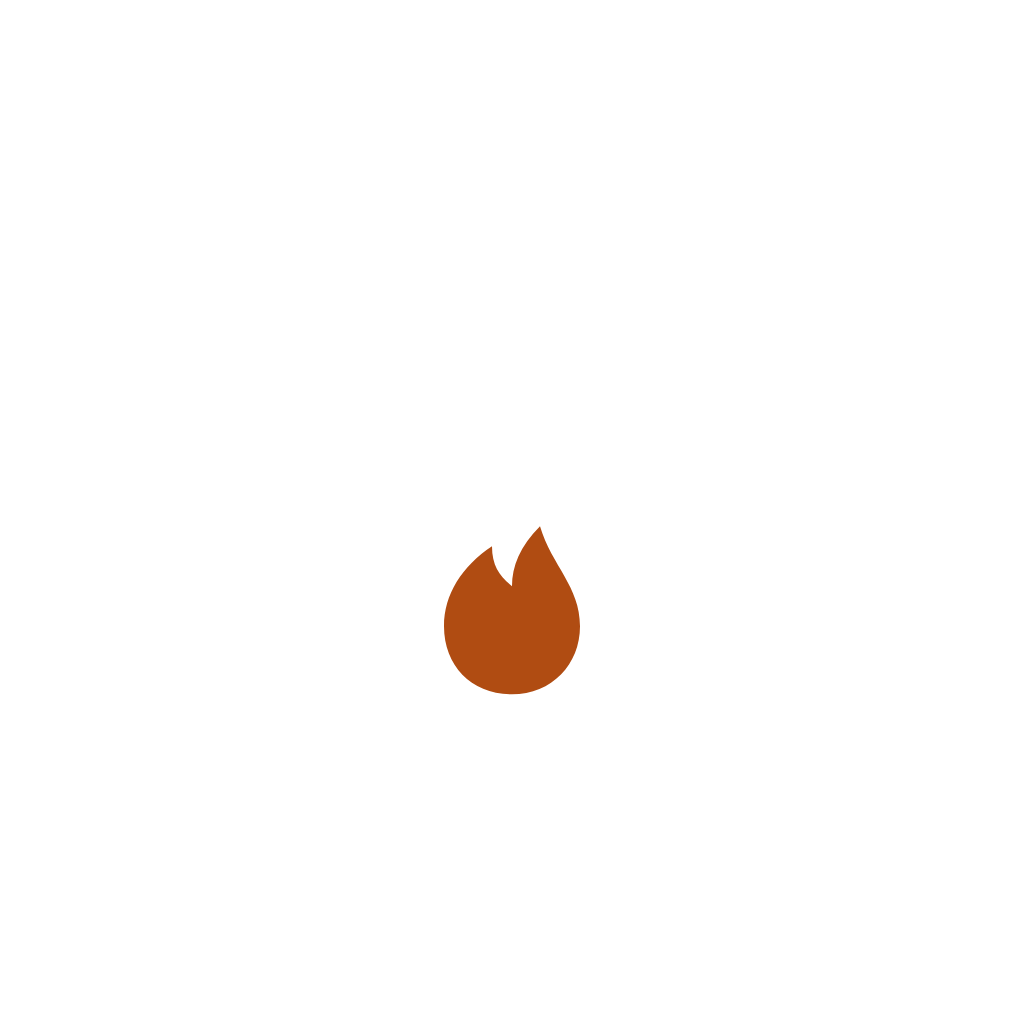
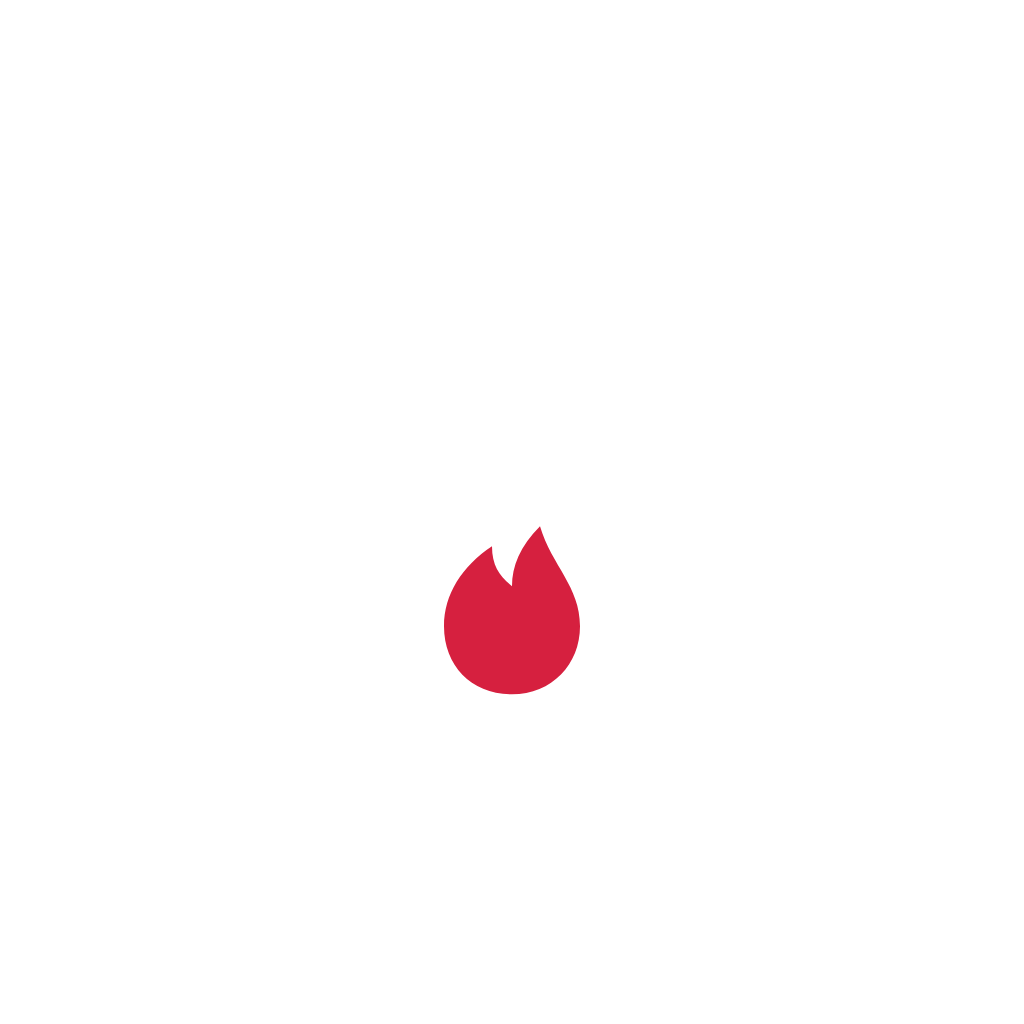
New Thermostat colors: red heating, blue cooling, purple maintenance
Claude-Session: https://claude.ai/code/session_011sMS5G2yfgXd9JAJgW4rWG

Changed region(s): [[0.4062, 0.5, 0.5938, 0.6875]]

diff --git a/index.html b/index.html
@@ -3,7 +3,7 @@
 <head>
 <meta charset="utf-8">
 <meta name="viewport" content="width=device-width, initial-scale=1, viewport-fit=cover">
-<meta name="theme-color" content="#f4f1eb">
+<meta name="theme-color" content="#f6f7f9">
 <meta name="apple-mobile-web-app-capable" content="yes">
 <meta name="mobile-web-app-capable" content="yes">
 <meta name="apple-mobile-web-app-status-bar-style" content="default">
@@ -17,10 +17,10 @@
 <link rel="stylesheet" href="https://fonts.googleapis.com/css2?family=Inter:wght@400;500;600;700;800;900&display=swap">
 <style>
   :root{
-    --bg:#f4f1eb; --card:#fff; --ink:#1d2430; --muted:#5f6672; --line:#e7e1d6;
-    --heat:#b04c12; --cool:#1f5a96; --maint:#22663f;
-    --accent:#b04c12; --navy:#1f3a5f;
-    --red:#a42828; --amber:#8a5a12; --blue:#2c5282; --green:#22663f;
+    --bg:#f6f7f9; --card:#fff; --ink:#0f172a; --muted:#556070; --line:#e2e8f0;
+    --heat:#d6203f; --cool:#2563eb; --maint:#6d3fd6;
+    --accent:#d6203f; --navy:#2563eb;
+    --red:#b0172f; --amber:#8a5a00; --blue:#1d4fc4; --green:#15803d;
   }
   *{box-sizing:border-box}
   html,body{margin:0;overscroll-behavior-y:none;background:var(--bg);color:var(--ink);font:17px/1.4 Inter,-apple-system,BlinkMacSystemFont,"Segoe UI",Roboto,sans-serif;-webkit-text-size-adjust:100%}
@@ -32,7 +32,7 @@
   #upd b{display:block;font-size:16px}
   #upd span{font-size:13px;color:#c3cad4;display:block;white-space:nowrap;overflow:hidden;text-overflow:ellipsis}
   #upd a{background:var(--accent);color:#fff;text-decoration:none;font-weight:800;font-size:15px;border-radius:12px;padding:11px 14px;white-space:nowrap}
-  #upd button{background:none;border:0;color:#a3abb8;font-size:18px;width:32px;height:32px}
+  #upd button{background:none;border:0;color:#94a3b8;font-size:18px;width:32px;height:32px}
   #banner{display:none;background:#fff4e5;color:#7a4510;font-size:14px;padding:8px 16px;border-bottom:1px solid #f3d7b5}
   main{padding:env(safe-area-inset-top) 14px 120px;max-width:560px;margin:0 auto}
   .top{display:flex;justify-content:space-between;align-items:center;padding:18px 4px 12px}
@@ -81,13 +81,13 @@
 
   /* white list */
   .list{background:#fff;border-radius:20px;overflow:hidden}
-  .li{display:flex;align-items:center;gap:12px;padding:13px 14px;border:0;border-bottom:1px solid #f0ece4;background:none;width:100%;text-align:left}
+  .li{display:flex;align-items:center;gap:12px;padding:13px 14px;border:0;border-bottom:1px solid #eef1f5;background:none;width:100%;text-align:left}
   .li:last-child{border-bottom:0}
   .num{width:42px;height:42px;flex-shrink:0;border-radius:13px;display:flex;align-items:center;justify-content:center;font-size:18px;font-weight:900}
   .li .mid{flex:1;display:flex;flex-direction:column;min-width:0}
   .li .mid b{font-size:16px;font-weight:800}
   .li .mid span{font-size:14px;color:var(--muted)}
-  .chev{width:20px;height:20px;flex-shrink:0;color:#8a919c}
+  .chev{width:20px;height:20px;flex-shrink:0;color:#94a3b8}
   .tiles{display:grid;grid-template-columns:1fr 1fr;gap:10px;margin-top:12px}
   .tile{background:#fff;border-radius:18px;padding:14px;display:flex;flex-direction:column;gap:2px;border:0;text-align:left}
   .tile.dark{background:var(--ink);color:#fff}
@@ -106,10 +106,10 @@
   .jcard .p{font-size:15px}
   .jcard .s{font-size:14px;color:var(--muted)}
   .pill{font-size:11px;font-weight:800;padding:4px 9px;border-radius:99px;white-space:nowrap;text-transform:uppercase;letter-spacing:.04em}
-  .s-new{background:#e6eefb;color:var(--blue)}
-  .s-scheduled{background:#fdf0dc;color:var(--amber)}
-  .s-done{background:#fde3e3;color:var(--red)}
-  .s-paid{background:#def5e7;color:var(--green)}
+  .s-new{background:#e3ecff;color:var(--blue)}
+  .s-scheduled{background:#fff1d6;color:var(--amber)}
+  .s-done{background:#ffe4e8;color:var(--red)}
+  .s-paid{background:#dcfce7;color:var(--green)}
   .chips{display:flex;gap:8px;overflow-x:auto;padding-bottom:4px;margin-bottom:10px}
   .chip{border:0;background:#fff;border-radius:99px;padding:9px 15px;font-size:15px;font-weight:600;white-space:nowrap}
   .chip.on{background:var(--ink);color:#fff}
@@ -138,7 +138,7 @@
   .btn:active{opacity:.85}
   .btn.accent{background:var(--accent)}
   .btn.green{background:var(--green)}
-  .btn.ghost{background:#fff;color:var(--ink);border:1.5px solid #d9d3c7}
+  .btn.ghost{background:#fff;color:var(--ink);border:1.5px solid #cbd5e1}
   .btn.danger{background:#fff;color:var(--red);border:1.5px solid #f1b5b5}
   .btn.small{width:auto;padding:10px 14px;font-size:15px}
   .btns{display:grid;gap:10px;margin-top:14px}
@@ -146,7 +146,7 @@
 
   /* nav */
   nav.tabs{position:fixed;left:50%;transform:translateX(-50%);bottom:calc(14px + env(safe-area-inset-bottom));width:calc(100% - 28px);max-width:532px;height:68px;background:var(--ink);border-radius:24px;display:grid;grid-template-columns:repeat(5,1fr);align-items:center;z-index:6;box-shadow:0 10px 28px rgba(0,0,0,.25)}
-  nav.tabs button{background:none;border:0;display:flex;flex-direction:column;align-items:center;gap:3px;color:#a3abb8;font-size:11px;font-weight:600;position:relative}
+  nav.tabs button{background:none;border:0;display:flex;flex-direction:column;align-items:center;gap:3px;color:#94a3b8;font-size:11px;font-weight:600;position:relative}
   nav.tabs button svg{width:22px;height:22px}
   nav.tabs button.on{color:#fff;font-weight:800}
   nav.tabs .plus{justify-self:center;width:54px;height:54px;border-radius:18px;background:var(--accent);color:#fff;display:flex;align-items:center;justify-content:center}
@@ -155,7 +155,7 @@
 
   /* forms + sheet */
   label{display:block;font-size:14px;font-weight:700;color:var(--muted);margin:12px 2px 5px}
-  input,select,textarea{width:100%;padding:13px;border:1px solid #d6d0c4;border-radius:12px;background:#fff;font-size:17px}
+  input,select,textarea{width:100%;padding:13px;border:1px solid #cbd5e1;border-radius:12px;background:#fff;font-size:17px}
   textarea{min-height:76px;resize:vertical}
   input:focus,select:focus,textarea:focus{outline:2px solid var(--navy);border-color:transparent}
   .kpick{display:grid;grid-template-columns:repeat(3,1fr);gap:8px}
@@ -178,11 +178,11 @@
   #sheet .panel{position:absolute;left:0;right:0;bottom:0;top:28px;background:var(--bg);border-radius:22px 22px 0 0;display:flex;flex-direction:column;max-width:560px;margin:0 auto}
   #sheet .shead{display:flex;align-items:center;gap:10px;padding:14px 16px;border-bottom:1px solid var(--line)}
   #sheet .shead h2{margin:0;flex:1;font-size:21px;font-weight:900}
-  #sheet .close{border:0;background:#e7e1d6;border-radius:99px;width:40px;height:40px;font-size:18px}
+  #sheet .close{border:0;background:#e2e8f0;border-radius:99px;width:40px;height:40px;font-size:18px}
   #sheet .body{overflow-y:auto;padding:6px 16px 40px;flex:1}
   #toast{position:fixed;left:50%;bottom:110px;transform:translateX(-50%);background:var(--ink);color:#fff;padding:11px 18px;border-radius:99px;font-size:15px;z-index:30;opacity:0;transition:opacity .2s;pointer-events:none;max-width:90%}
   #toast.on{opacity:1}
-  .seg2{display:grid;grid-template-columns:1fr 1fr;gap:4px;background:#e7e1d6;border-radius:12px;padding:4px;margin-top:12px}
+  .seg2{display:grid;grid-template-columns:1fr 1fr;gap:4px;background:#e2e8f0;border-radius:12px;padding:4px;margin-top:12px}
   .seg2 button{border:0;background:none;border-radius:9px;padding:10px;font-weight:800;font-size:15px;color:var(--muted)}
   .seg2 button.on{background:#fff;color:var(--ink);box-shadow:0 1px 3px rgba(0,0,0,.1)}
   .grid3{display:grid;grid-template-columns:1fr 1.3fr 1.3fr;gap:8px}
@@ -191,38 +191,38 @@
   .ihead{display:flex;align-items:center;gap:8px}
   .ihead input{border:0;padding:8px 4px;font-weight:700;flex:1;min-width:0}
   .itag{font-size:11px;font-weight:800;text-transform:uppercase;letter-spacing:.04em;padding:4px 8px;border-radius:99px;white-space:nowrap}
-  .irm{border:0;background:#f4f1eb;border-radius:10px;width:36px;height:36px;color:var(--red);font-size:16px;flex-shrink:0}
+  .irm{border:0;background:#f6f7f9;border-radius:10px;width:36px;height:36px;color:var(--red);font-size:16px;flex-shrink:0}
   .irow{display:grid;grid-template-columns:1fr 1fr auto;gap:8px;align-items:end;margin-top:6px}
   .irow label{margin:0;font-size:12px}
   .irow input{padding:10px;font-size:16px;margin-top:3px}
   .ltot{font-weight:900;font-size:17px;padding:0 4px 10px;min-width:80px;text-align:right;font-variant-numeric:tabular-nums}
   .qadd{display:flex;flex-wrap:wrap;gap:8px;margin-top:4px}
-  .qchip{border:1.5px dashed #c9c1b2;background:#fff;border-radius:99px;padding:9px 13px;font-size:14px;font-weight:700;color:var(--ink)}
+  .qchip{border:1.5px dashed #cbd5e1;background:#fff;border-radius:99px;padding:9px 13px;font-size:14px;font-weight:700;color:var(--ink)}
   .qchip b{color:var(--muted);font-weight:700}
   .paper-wrap{margin-top:14px;overflow-x:auto}
-  .paper{background:#fff;border-radius:8px;box-shadow:0 4px 18px rgba(0,0,0,.12);padding:0 18px 22px;font-size:12px;line-height:1.45;color:#1d2430;min-width:320px;position:relative;overflow:hidden}
-  .pbar{height:6px;background:#b04c12;margin:0 -18px 16px}
+  .paper{background:#fff;border-radius:8px;box-shadow:0 4px 18px rgba(0,0,0,.12);padding:0 18px 22px;font-size:12px;line-height:1.45;color:#0f172a;min-width:320px;position:relative;overflow:hidden}
+  .pbar{height:6px;background:#d6203f;margin:0 -18px 16px}
   .phead{display:flex;justify-content:space-between;gap:12px}
   .pbiz{font-size:17px;font-weight:900}
-  .pmut{color:#5f6672}
+  .pmut{color:#556070}
   .pright{text-align:right}
-  .ptitle{font-size:20px;font-weight:900;color:#b04c12;letter-spacing:.02em}
+  .ptitle{font-size:20px;font-weight:900;color:#d6203f;letter-spacing:.02em}
   .pmeta{margin-left:auto;border-collapse:collapse;margin-top:4px}
-  .pmeta td{padding:1px 0 1px 10px;color:#5f6672;white-space:nowrap}
+  .pmeta td{padding:1px 0 1px 10px;color:#556070;white-space:nowrap}
   .phead>div:first-child{min-width:0}
-  .pmeta td+td{color:#1d2430;font-weight:700}
-  .pcols{display:grid;grid-template-columns:1fr 1fr;gap:12px;border-top:1px solid #e7e1d6;margin-top:14px;padding-top:12px}
-  .plab{font-size:10px;font-weight:800;color:#5f6672;text-transform:uppercase;letter-spacing:.06em;margin-bottom:2px}
+  .pmeta td+td{color:#0f172a;font-weight:700}
+  .pcols{display:grid;grid-template-columns:1fr 1fr;gap:12px;border-top:1px solid #e2e8f0;margin-top:14px;padding-top:12px}
+  .plab{font-size:10px;font-weight:800;color:#556070;text-transform:uppercase;letter-spacing:.06em;margin-bottom:2px}
   .pitems{width:100%;border-collapse:collapse;margin-top:14px}
-  .pitems th{background:#1d2430;color:#fff;font-size:10px;text-transform:uppercase;letter-spacing:.05em;padding:7px 6px;text-align:right}
+  .pitems th{background:#0f172a;color:#fff;font-size:10px;text-transform:uppercase;letter-spacing:.05em;padding:7px 6px;text-align:right}
   .pitems th:first-child{text-align:left;border-radius:4px 0 0 4px}
   .pitems th:last-child{border-radius:0 4px 4px 0}
-  .pitems td{padding:7px 6px;text-align:right;border-bottom:1px solid #f0ece4;white-space:nowrap}
+  .pitems td{padding:7px 6px;text-align:right;border-bottom:1px solid #eef1f5;white-space:nowrap}
   .pitems td:first-child{text-align:left;white-space:normal}
-  .pitems tr:nth-child(even) td{background:#f8f6f2}
+  .pitems tr:nth-child(even) td{background:#f8fafc}
   .ptot{margin:12px 0 0 auto;max-width:220px}
   .ptot div{display:flex;justify-content:space-between;padding:2px 0}
-  .ptot .big{font-weight:900;font-size:14px;border-top:1px solid #1d2430;margin-top:4px;padding-top:6px}
+  .ptot .big{font-weight:900;font-size:14px;border-top:1px solid #0f172a;margin-top:4px;padding-top:6px}
   .ptot .due{color:#fff;border-radius:6px;padding:8px 10px;margin-top:6px;font-weight:900;font-size:13px}
   .pnote{white-space:pre-wrap}
   .copybox{width:100%;min-height:240px;font-family:ui-monospace,Menlo,Consolas,monospace;font-size:14px}
@@ -270,9 +270,9 @@ const ICON = {
   gear:`<svg width="20" height="20" viewBox="0 0 24 24" fill="none" stroke="currentColor" stroke-width="2" stroke-linecap="round" stroke-linejoin="round" aria-hidden="true"><circle cx="12" cy="12" r="3"/><path d="M12 2v3M12 19v3M4.2 4.2l2.1 2.1M17.7 17.7l2.1 2.1M2 12h3M19 12h3M4.2 19.8l2.1-2.1M17.7 6.3l2.1-2.1"/></svg>`
 };
 const KIND = {
-  heat:{label:"Heating", color:"#b04c12", map:"#9c430f", road:"#aa4c16"},
-  cool:{label:"Cooling", color:"#1f5a96", map:"#1a4c80", road:"#235a92"},
-  maint:{label:"Maintenance", color:"#22663f", map:"#1c5534", road:"#246a42"}
+  heat:{label:"Heating", color:"#d6203f", map:"#b81a35", road:"#c81d3b"},
+  cool:{label:"Cooling", color:"#2563eb", map:"#1d4ed8", road:"#2a5fe0"},
+  maint:{label:"Maintenance", color:"#6d3fd6", map:"#5b33b8", road:"#6639c7"}
 };
 const kindOf = j => KIND[j.kind] ? j.kind : "heat";
 const defaultKind = () => { const m = new Date().getMonth(); return (m >= 9 || m <= 3) ? "heat" : "cool"; };
@@ -358,6 +358,7 @@ function invoiceTotals(j){
   const paidAmt = j.status === "paid" ? total : Math.min(num(j.deposit), total);
   return {items, sub, discount, taxPct, tax, total, paidAmt, due: Math.max(0, total - paidAmt)};
 }
+const paidFull = (j,t) => j.status === "paid" || (t.total > 0 && t.due === 0);
 const hasInvoice = j => getItems(j).some(it => num(it.price) || (it.desc||"").trim());
 
 /* ---------- state ---------- */
@@ -446,19 +447,19 @@ function viewToday(B){
       <button class="btn accent" ${B.toBook.length?`data-go="schedule"`:`data-go="new"`}>${B.toBook.length?"Book a day":"+ New job"}</button></div>`;
   }
   const todo = [];
-  if (B.needBill.length) todo.push({n:B.needBill.length, t:"Bills to make", s:B.needBill.map(j=>j.name).slice(0,3).join(", ")+" — finished", bg:"#fde3e3", fg:"#a42828", go:"bills"});
-  if (B.toBook.length) todo.push({n:B.toBook.length, t:"Call to book", s:B.toBook.map(j=>j.name).slice(0,3).join(", "), bg:"#e6eefb", fg:"#2c5282", go:"schedule"});
-  if (B.overdue.length) todo.push({n:B.overdue.length, t:"Overdue payment", s:B.overdue.map(j=>`${j.name} — ${daysSince(j.doneOn)} days`).slice(0,2).join(", "), bg:"#fdf0dc", fg:"#8a5a12", go:"bills"});
+  if (B.needBill.length) todo.push({n:B.needBill.length, t:"Bills to make", s:B.needBill.map(j=>j.name).slice(0,3).join(", ")+" — finished", bg:"#ffe4e8", fg:"#b0172f", go:"bills"});
+  if (B.toBook.length) todo.push({n:B.toBook.length, t:"Call to book", s:B.toBook.map(j=>j.name).slice(0,3).join(", "), bg:"#e3ecff", fg:"#1d4fc4", go:"schedule"});
+  if (B.overdue.length) todo.push({n:B.overdue.length, t:"Overdue payment", s:B.overdue.map(j=>`${j.name} — ${daysSince(j.doneOn)} days`).slice(0,2).join(", "), bg:"#fff1d6", fg:"#8a5a00", go:"bills"});
   html += `<h2 class="sec" style="margin-top:${t.length>1?36:22}px">Needs you<span class="cnt">${todo.length?todo.length+" thing"+(todo.length>1?"s":""):""}</span></h2>`;
   html += todo.length ? `<div class="list">${todo.map(x=>`<button class="li" data-go="${x.go}"><span class="num" style="background:${x.bg};color:${x.fg}">${x.n}</span><span class="mid"><b>${x.t}</b><span>${esc(x.s)}</span></span>${CHEV}</button>`).join("")}</div>`
-    : `<div class="list"><div class="li"><span class="num" style="background:#def5e7;color:#22663f">✓</span><span class="mid"><b>All caught up</b><span>No bills or calls waiting.</span></span></div></div>`;
+    : `<div class="list"><div class="li"><span class="num" style="background:#dcfce7;color:#15803d">✓</span><span class="mid"><b>All caught up</b><span>No bills or calls waiting.</span></span></div></div>`;
   html += `<div class="tiles"><button class="tile" data-go="bills"><small>Billed this week</small><b>${money0(B.billedWeek)}</b></button><button class="tile dark" data-go="bills"><small>Owed to you</small><b>${money0(B.owed)}</b></button></div>`;
   return html;
 }
 
 function stackCard(j, label){
   const k = kindOf(j);
-  return `<button class="scard" style="background:${j.status==="done"?"#5f6672":KIND[k].color}" data-open="${j.id}">
+  return `<button class="scard" style="background:${j.status==="done"?"#64748b":KIND[k].color}" data-open="${j.id}">
     <div class="kindrow"><span class="kindlab"><span class="kic">${ICON[k]}</span>${esc(label)}</span><span class="t">${j.time?fmtTime(j.time):""}</span></div>
     <div class="row"><span class="nm">${esc(j.name)}</span>${j.worker?`<span class="tag">${esc(j.worker)}</span>`:""}</div>
     ${j.problem?`<div class="p">${esc(j.problem)}</div>`:""}
@@ -523,7 +524,7 @@ function viewBills(B){
     <h2 class="sec">Waiting for payment<span class="cnt">${unpaid.length||""}</span></h2>
     ${unpaid.length ? unpaid.map(j=>{ const d=daysSince(j.doneOn); return `<div class="card">
       <div style="display:flex;justify-content:space-between;align-items:baseline"><b style="font-size:18px">${esc(j.name)}</b><span class="money" style="font-size:18px">${money(invoiceTotals(j).due)}</span></div>
-      <div class="hint" style="margin:2px 0 0">${j.invNo?"Bill #"+j.invNo+" · ":""}${d===0?"Done today":d+" day"+(d>1?"s":"")+" waiting"}${d>=14?' · <b style="color:#a42828">overdue</b>':""}</div>
+      <div class="hint" style="margin:2px 0 0">${j.invNo?"Bill #"+j.invNo+" · ":""}${d===0?"Done today":d+" day"+(d>1?"s":"")+" waiting"}${d>=14?' · <b style="color:#b0172f">overdue</b>':""}</div>
       <div class="btns two" style="margin-top:10px"><button class="btn ghost small" data-open="${j.id}" data-mode="invoice">View bill</button><button class="btn green small" data-paid="${j.id}">Mark paid</button></div></div>`;}).join("")
       : `<div class="empty">Nobody owes anything right now.</div>`}
     ${paid.length?`<h2 class="sec">Paid</h2><div class="list">${paid.map(j=>`<button class="li" data-open="${j.id}" data-mode="invoice"><span class="mid"><b>${esc(j.name)}</b><span>${j.invNo?"#"+j.invNo+" · ":""}paid ${j.paidOn?fmtDay(j.paidOn):""}</span></span><span class="money">${money(invoiceTotals(j).total)}</span></button>`).join("")}</div>`:""}`;
@@ -594,7 +595,7 @@ function markDone(id){
 
 /* ---------- invoice builder ---------- */
 const TERMS = {receipt:"Due on receipt", net15:"Net 15 days", net30:"Net 30 days"};
-const ITEM_KIND = {labor:{label:"Labor", bg:"#e6eefb", fg:"#2c5282"}, part:{label:"Part", bg:"#fbe6d6", fg:"#8a3a0d"}, service:{label:"Service", bg:"#def5e7", fg:"#22663f"}, other:{label:"Other", bg:"#eceae5", fg:"#4a505a"}};
+const ITEM_KIND = {labor:{label:"Labor", bg:"#e3ecff", fg:"#1d4fc4"}, part:{label:"Part", bg:"#fbe6d6", fg:"#8a3a0d"}, service:{label:"Service", bg:"#dcfce7", fg:"#15803d"}, other:{label:"Other", bg:"#eef1f5", fg:"#475569"}};
 const longDate = s => s ? parseDay(s).toLocaleDateString("en-US",{month:"short",day:"numeric",year:"numeric"}) : "";
 const fmtQty = q => Number.isInteger(q) ? String(q) : String(+q.toFixed(2));
 function dueLabel(j){
@@ -673,7 +674,7 @@ function openInvoice(id){
       ${t.discount?`<div class="inv-line"><span>Discount</span><span>−${money(t.discount)}</span></div>`:""}
       ${t.taxPct?`<div class="inv-line"><span>Tax ${t.taxPct}%</span><span>${money(t.tax)}</span></div>`:""}
       <div class="inv-total"><span>Total</span><span>${money(t.total)}</span></div>
-      ${t.paidAmt?`<div class="inv-line" style="color:#22663f"><span>Paid</span><span>−${money(t.paidAmt)}</span></div><div class="inv-line" style="color:var(--ink);font-weight:800"><span>Balance due</span><span>${money(t.due)}</span></div>`:""}`;
+      ${t.paidAmt?`<div class="inv-line" style="color:#15803d"><span>Paid</span><span>−${money(t.paidAmt)}</span></div><div class="inv-line" style="color:var(--ink);font-weight:800"><span>Balance due</span><span>${money(t.due)}</span></div>`:""}`;
   };
   const bindCommon = () => {
     const body = $("#sheetBody");
@@ -731,8 +732,8 @@ function invoiceHTML(j){
       ${t.discount?`<div><span>Discount</span><span>−${money(t.discount)}</span></div>`:""}
       ${t.taxPct?`<div><span>Tax (${t.taxPct}%)</span><span>${money(t.tax)}</span></div>`:""}
       <div class="big"><span>Total</span><span>${money(t.total)}</span></div>
-      ${t.paidAmt?`<div style="color:#22663f"><span>Paid</span><span>−${money(t.paidAmt)}</span></div>`:""}
-      <div class="due" style="background:${t.due?"#b04c12":"#22663f"}"><span>${t.due?"Balance due":"Paid in full"}</span><span>${money(t.due)}</span></div>
+      ${t.paidAmt?`<div style="color:#15803d"><span>Paid</span><span>−${money(t.paidAmt)}</span></div>`:""}
+      <div class="due" style="background:${paidFull(j,t)?"#15803d":"#d6203f"}"><span>${paidFull(j,t)?"Paid in full":"Balance due"}</span><span>${money(t.due)}</span></div>
     </div>
     ${j.invNote?`<div class="plab" style="margin-top:18px">Notes</div><div class="pnote">${esc(j.invNote)}</div>`:""}
   </div>`;
@@ -742,7 +743,7 @@ function makePdf(j){
   const { jsPDF } = window.jspdf;
   const doc = new jsPDF({unit:"pt", format:"letter"});
   const s = Store.settings, t = invoiceTotals(j), W = 612, M = 44;
-  const ink=[29,36,48], mut=[95,102,114], acc=[176,76,18], grn=[34,102,63];
+  const ink=[15,23,42], mut=[85,96,112], acc=[214,32,63], grn=[21,128,61];
   const C = c => doc.setTextColor(c[0],c[1],c[2]);
   const F = (w,sz) => { doc.setFont("helvetica", w); doc.setFontSize(sz); };
   const clean = v => String(v ?? "").replace(/[\u2014\u2013]/g,"-").replace(/\u2212/g,"-");
@@ -755,7 +756,7 @@ function makePdf(j){
   let my = y+20;
   [["Invoice #", j.invNo||""],["Date", longDate(j.invDate)],["Due", dueLabel(j)]].forEach(([k,v]) => { F("normal",10); C(mut); doc.text(k, W-M-120, my); F("bold",10); C(ink); doc.text(clean(v), W-M, my, {align:"right"}); my += 14; });
   y = Math.max(hy, my) + 14;
-  doc.setDrawColor(231,225,214); doc.setLineWidth(1); doc.line(M,y,W-M,y); y += 24;
+  doc.setDrawColor(226,232,240); doc.setLineWidth(1); doc.line(M,y,W-M,y); y += 24;
   F("bold",9); C(mut); doc.text("BILL TO", M, y); doc.text("JOB", W/2+10, y); y += 15;
   F("bold",11); C(ink); doc.text(clean(j.name), M, y);
   F("normal",10);
@@ -774,13 +775,13 @@ function makePdf(j){
     const lines = doc.splitTextToSize(clean(it.desc||""), cx.qty-cx.desc-50);
     const h = Math.max(1, lines.length)*13 + 13;
     if (y + h > 690){ doc.addPage(); y = 60; header(); F("normal",10); }
-    if (i % 2 === 1){ doc.setFillColor(248,246,242); doc.rect(M,y,W-2*M,h,"F"); }
+    if (i % 2 === 1){ doc.setFillColor(248,250,252); doc.rect(M,y,W-2*M,h,"F"); }
     C(ink); lines.forEach((l,k) => doc.text(l, cx.desc, y+17+k*13));
     const q = qtyOf(it);
     doc.text(fmtQty(q), cx.qty, y+17, {align:"right"}); doc.text(money(it.price), cx.price, y+17, {align:"right"}); doc.text(money(q*num(it.price)), cx.amt, y+17, {align:"right"});
     y += h;
   });
-  doc.setDrawColor(231,225,214); doc.line(M,y,W-M,y); y += 22;
+  doc.setDrawColor(226,232,240); doc.line(M,y,W-M,y); y += 22;
   if (y > 620){ doc.addPage(); y = 60; }
   const totTop = y;
   const row = (k,v,bold,col) => { F(bold?"bold":"normal", bold?12:10); C(col||ink); doc.text(k, W-M-180, y); doc.text(v, W-M-12, y, {align:"right"}); y += bold?20:16; };
@@ -789,9 +790,9 @@ function makePdf(j){
   if (t.taxPct) row(`Tax (${t.taxPct}%)`, money(t.tax));
   row("Total", money(t.total), true);
   if (t.paidAmt) row("Paid", "-"+money(t.paidAmt), false, grn);
-  const bc = t.due ? acc : grn;
+  const bc = paidFull(j,t) ? grn : acc;
   doc.setFillColor(bc[0],bc[1],bc[2]); doc.roundedRect(W-M-196, y-6, 196, 34, 6, 6, "F");
-  F("bold",12); doc.setTextColor(255,255,255); doc.text(t.due ? "Balance due" : "Paid in full", W-M-182, y+15); doc.text(money(t.due), W-M-12, y+15, {align:"right"});
+  F("bold",12); doc.setTextColor(255,255,255); doc.text(paidFull(j,t) ? "Paid in full" : "Balance due", W-M-182, y+15); doc.text(money(t.due), W-M-12, y+15, {align:"right"});
   if (j.status === "paid"){ F("bold",38); C(grn); doc.text("PAID", M+30, totTop+50, {angle:12}); if (j.paidOn){ F("normal",10); doc.text("on "+longDate(j.paidOn), M+38, totTop+70, {angle:12}); } }
   let ny = y + 64;
   if (j.invNote){

diff --git a/sw.js b/sw.js
@@ -1,4 +1,4 @@
-const CACHE = "jobbook-v2";
+const CACHE = "jobbook-v3";
 const FILES = ["./", "index.html", "jspdf.umd.min.js", "manifest.json", "icon-192.png", "icon-512.png", "apple-touch-icon.png"];
 self.addEventListener("install", e => { e.waitUntil(caches.open(CACHE).then(c => c.addAll(FILES))); self.skipWaiting(); });
 self.addEventListener("activate", e => { e.waitUntil(caches.keys().then(ks => Promise.all(ks.filter(k => k !== CACHE).map(k => caches.delete(k))))); self.clients.claim(); });
